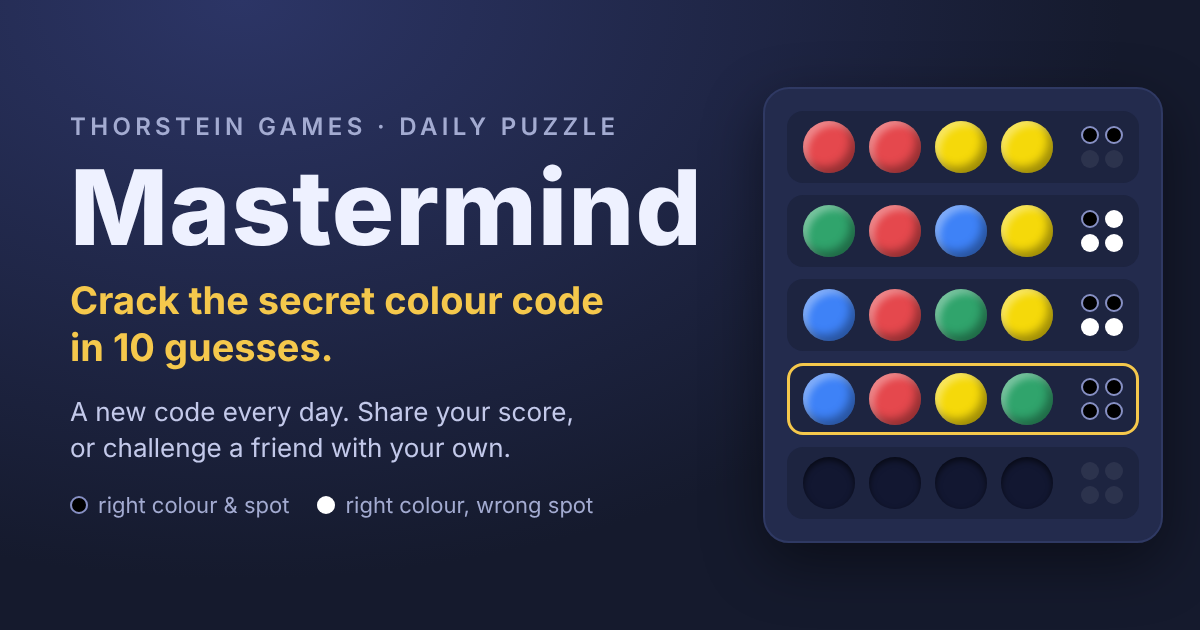
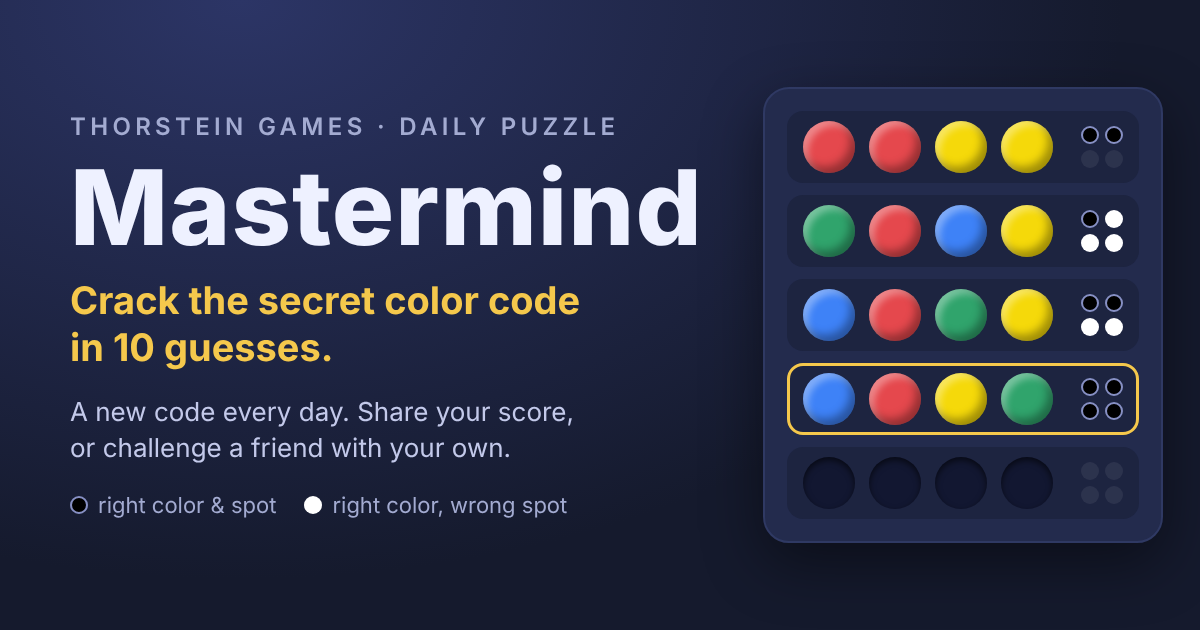
Use American spelling: colour -> color
Page text, share image, FAQ/structured data, docs and code. Daily codes
and challenge links are unchanged.

Claude-Session: https://claude.ai/code/session_01EJeuJkqv4QMomsrJt5q13H

Changed region(s): [[0.1542, 0.7841, 0.4933, 0.8143], [0.37, 0.4524, 0.5242, 0.5127]]

diff --git a/index.html b/index.html
@@ -6,11 +6,11 @@
     <title>Mastermind – Free Daily Code-Breaking Puzzle | Thorstein Games</title>
     <meta
       name="description"
-      content="Play Mastermind free online: crack the secret 4-colour code in 10 guesses. A new code every day, Wordle-style sharing, and custom codes to challenge friends."
+      content="Play Mastermind free online: crack the secret 4-color code in 10 guesses. A new code every day, Wordle-style sharing, and custom codes to challenge friends."
     />
     <meta
       name="keywords"
-      content="mastermind, mastermind game, mastermind online, daily puzzle, code breaker, codebreaker game, colour code game, logic puzzle, wordle alternative, brain game"
+      content="mastermind, mastermind game, mastermind online, daily puzzle, code breaker, codebreaker game, color code game, logic puzzle, wordle alternative, brain game"
     />
     <link rel="canonical" href="https://thorsteingames.com/mastermind" />
     <meta name="robots" content="index, follow, max-image-preview:large" />
@@ -22,10 +22,10 @@
     <meta property="og:type" content="website" />
     <meta property="og:locale" content="en_US" />
     <meta property="og:url" content="https://thorsteingames.com/mastermind" />
-    <meta property="og:title" content="Mastermind – crack the daily colour code" />
+    <meta property="og:title" content="Mastermind – crack the daily color code" />
     <meta
       property="og:description"
-      content="A new 4-colour code every day. 10 guesses. Black pin: right colour, right spot. White pin: right colour, wrong spot. Share your score or challenge a friend."
+      content="A new 4-color code every day. 10 guesses. Black pin: right color, right spot. White pin: right color, wrong spot. Share your score or challenge a friend."
     />
     <meta property="og:image" content="https://thorsteingames.com/mastermind/og-image.png" />
     <meta property="og:image:secure_url" content="https://thorsteingames.com/mastermind/og-image.png" />
@@ -34,18 +34,18 @@
     <meta property="og:image:height" content="630" />
     <meta
       property="og:image:alt"
-      content="Mastermind by Thorstein Games: a board of coloured guesses with black and white feedback pins"
+      content="Mastermind by Thorstein Games: a board of colored guesses with black and white feedback pins"
     />
     <meta name="twitter:card" content="summary_large_image" />
-    <meta name="twitter:title" content="Mastermind – crack the daily colour code" />
+    <meta name="twitter:title" content="Mastermind – crack the daily color code" />
     <meta
       name="twitter:description"
-      content="A new 4-colour code every day. 10 guesses. Share your score or challenge a friend."
+      content="A new 4-color code every day. 10 guesses. Share your score or challenge a friend."
     />
     <meta name="twitter:image" content="https://thorsteingames.com/mastermind/og-image.png" />
     <meta
       name="twitter:image:alt"
-      content="Mastermind by Thorstein Games: a board of coloured guesses with black and white feedback pins"
+      content="Mastermind by Thorstein Games: a board of colored guesses with black and white feedback pins"
     />
 
     <link rel="icon" type="image/svg+xml" href="/favicon.svg" />
@@ -63,7 +63,7 @@
             "name": "Mastermind",
             "url": "https://thorsteingames.com/mastermind",
             "image": "https://thorsteingames.com/mastermind/og-image.png",
-            "description": "A free daily code-breaking puzzle. Crack the secret 4-colour code in 10 guesses using black and white feedback pins, share your score, or set a code to challenge a friend.",
+            "description": "A free daily code-breaking puzzle. Crack the secret 4-color code in 10 guesses using black and white feedback pins, share your score, or set a code to challenge a friend.",
             "genre": ["Puzzle", "Logic", "Daily puzzle"],
             "gamePlatform": "Web browser",
             "applicationCategory": "GameApplication",
@@ -96,11 +96,11 @@
               {
                 "@type": "Question",
                 "name": "How do you play Mastermind?",
-                "acceptedAnswer": { "@type": "Answer", "text": "Guess the secret code: 4 pegs, each red, yellow, green or blue. After each guess, a black pin means a right colour in the right spot and a white pin means a right colour in the wrong spot. Crack the code within 10 guesses." }
+                "acceptedAnswer": { "@type": "Answer", "text": "Guess the secret code: 4 pegs, each red, yellow, green or blue. After each guess, a black pin means a right color in the right spot and a white pin means a right color in the wrong spot. Crack the code within 10 guesses." }
               },
               {
                 "@type": "Question",
-                "name": "Can colours repeat in the code?",
+                "name": "Can colors repeat in the code?",
                 "acceptedAnswer": { "@type": "Answer", "text": "Yes. Any arrangement is possible, such as blue blue green blue, so there are 256 possible codes." }
               },
               {
@@ -135,14 +135,14 @@
       <h2 id="about-title">How to play Mastermind</h2>
       <p>
         Mastermind is a classic code-breaking puzzle. The computer hides a secret code of
-        <strong>4 coloured pegs</strong>, each <strong>red, yellow, green or blue</strong>.
-        Colours can repeat, so <em>blue blue green blue</em> is a valid code. You have
+        <strong>4 colored pegs</strong>, each <strong>red, yellow, green or blue</strong>.
+        Colors can repeat, so <em>blue blue green blue</em> is a valid code. You have
         <strong>10 guesses</strong> to crack it.
       </p>
       <p>After every guess, pins next to it tell you how close you are:</p>
       <ul>
-        <li><strong>Black pin:</strong> one of your pegs is the right colour in the right spot.</li>
-        <li><strong>White pin:</strong> one of your pegs is the right colour, but in the wrong spot.</li>
+        <li><strong>Black pin:</strong> one of your pegs is the right color in the right spot.</li>
+        <li><strong>White pin:</strong> one of your pegs is the right color, but in the wrong spot.</li>
       </ul>
       <p>
         The pins come in no particular order, so they don't say which peg they mean, and each
@@ -155,7 +155,7 @@
       <h3>How do I share my result?</h3>
       <p>
         When you finish, tap <strong>Share result</strong>. Like Wordle, it shares only your pins, never
-        the colours, so it won't spoil the code for anyone else.
+        the colors, so it won't spoil the code for anyone else.
       </p>
       <h3>How do I challenge a friend?</h3>
       <p>

diff --git a/src/main.ts b/src/main.ts
@@ -201,7 +201,7 @@ function openHelp(): void {
     h(
       "p",
       {},
-      "Crack the secret code: 4 pegs, each Red, Yellow, Green or Blue. Colours can repeat, so ",
+      "Crack the secret code: 4 pegs, each Red, Yellow, Green or Blue. Colors can repeat, so ",
       h("em", {}, "Blue Blue Green Blue"),
       " is a possible code.",
     ),
@@ -209,13 +209,13 @@ function openHelp(): void {
     h(
       "ul",
       { class: "pin-legend" },
-      h("li", {}, h("span", { class: "pin pin-black" }), " Black: right colour in the right spot."),
-      h("li", {}, h("span", { class: "pin pin-white" }), " White: right colour, wrong spot."),
+      h("li", {}, h("span", { class: "pin pin-black" }), " Black: right color in the right spot."),
+      h("li", {}, h("span", { class: "pin pin-white" }), " White: right color, wrong spot."),
     ),
     h("p", {}, "The pins are in no particular order, so they don't say which peg they mean. Each secret peg counts once."),
     exampleRow(["red", "red", "blue", "green"], { black: 1, white: 1 }, "If the code is Red Yellow Green Yellow: one Red is exact (black), the Green is in the wrong spot (white)."),
     h("p", {}, "A new code every day at midnight. Share your result, or send a friend your own code with ✉."),
-    h("p", { class: "muted" }, "Keyboard: 1–4 or R/Y/G/B to add a colour, Backspace to remove, Enter to guess."),
+    h("p", { class: "muted" }, "Keyboard: 1–4 or R/Y/G/B to add a color, Backspace to remove, Enter to guess."),
   );
 }
 
@@ -410,7 +410,7 @@ function renderGame(cfg: GameConfig): void {
     );
     const palette = h(
       "div",
-      { class: "palette", "aria-label": "Colours" },
+      { class: "palette", "aria-label": "Colors" },
       ...COLORS.map((c, i) =>
         h(
           "button",
@@ -436,9 +436,9 @@ function renderGame(cfg: GameConfig): void {
         "p",
         { class: "legend muted" },
         h("span", { class: "pin pin-black" }),
-        " right colour & spot  ",
+        " right color & spot  ",
         h("span", { class: "pin pin-white" }),
-        " right colour, wrong spot",
+        " right color, wrong spot",
       ),
     );
   }
@@ -575,7 +575,7 @@ function renderCreate(): void {
       ...code.map((c, i) =>
         h("button", {
           class: `slot peg-${c}`,
-          "aria-label": `Spot ${i + 1}: ${COLOR_LABEL[c]}. Tap to change colour.`,
+          "aria-label": `Spot ${i + 1}: ${COLOR_LABEL[c]}. Tap to change color.`,
           onclick: () => {
             code[i] = COLORS[(COLORS.indexOf(code[i]) + 1) % COLORS.length];
             invalidate();
@@ -631,7 +631,7 @@ function renderCreate(): void {
         "div",
         { class: "card create" },
         h("h2", {}, "Set a secret code"),
-        h("p", { class: "muted" }, "Tap a peg to change its colour. Colours can repeat."),
+        h("p", { class: "muted" }, "Tap a peg to change its color. Colors can repeat."),
         slots,
         h(
           "div",

diff --git a/src/logic.ts b/src/logic.ts
@@ -27,14 +27,14 @@ export const COLOR_EMOJI: Record<Color, string> = {
 };
 
 export interface Feedback {
-  /** Right colour in the right spot. */
+  /** Right color in the right spot. */
   black: number;
-  /** Right colour in the wrong spot (each secret peg counts once). */
+  /** Right color in the wrong spot (each secret peg counts once). */
   white: number;
 }
 
 /**
- * Score a guess against the secret. A colour can only be matched as many
+ * Score a guess against the secret. A color can only be matched as many
  * times as it appears in the secret, and an exact match (black) replaces the
  * white it would otherwise have earned.
  */
@@ -124,7 +124,7 @@ export interface Challenge {
 }
 
 const CHALLENGE_SALT_BITS = 8;
-const CHALLENGE_DATA_BITS = 11; // 8 bits of colours + 3 bits of (guesses - 10)
+const CHALLENGE_DATA_BITS = 11; // 8 bits of colors + 3 bits of (guesses - 10)
 const CHALLENGE_CHECK_BITS = 5;
 
 function challengeMask(salt: number): number {
@@ -144,13 +144,13 @@ function challengeCheck(salt: number, data: number): number {
 export function encodeChallenge(ch: Challenge, salt = Math.floor(Math.random() * 256)): string {
   if (ch.code.length !== CODE_LENGTH) throw new Error("bad code length");
   if (ch.maxGuesses < MIN_GUESSES || ch.maxGuesses > MAX_GUESSES) throw new Error("bad guess count");
-  let colours = 0;
+  let colors = 0;
   for (const c of ch.code) {
     const i = COLORS.indexOf(c);
-    if (i < 0) throw new Error(`bad colour ${c}`);
-    colours = (colours << 2) | i;
+    if (i < 0) throw new Error(`bad color ${c}`);
+    colors = (colors << 2) | i;
   }
-  const data = colours | ((ch.maxGuesses - MIN_GUESSES) << 8);
+  const data = colors | ((ch.maxGuesses - MIN_GUESSES) << 8);
   const s = salt & ((1 << CHALLENGE_SALT_BITS) - 1);
   const packed =
     (((s << CHALLENGE_DATA_BITS) | (data ^ challengeMask(s))) << CHALLENGE_CHECK_BITS) |
@@ -190,7 +190,7 @@ export interface ShareInput {
   url: string;
 }
 
-/** Wordle-style result: only the pegs, never the colours, so it can't spoil the code. */
+/** Wordle-style result: only the pegs, never the colors, so it can't spoil the code. */
 export function shareText({ title, feedback, solved, maxGuesses, url }: ShareInput): string {
   const score = solved ? `${feedback.length}/${maxGuesses}` : `X/${maxGuesses}`;
   const rows = feedback.map(feedbackEmoji).join("\n");

diff --git a/scripts/og-image.html b/scripts/og-image.html
@@ -22,9 +22,9 @@ h1{font-size:104px;letter-spacing:.01em;line-height:1;margin:14px 0 18px;font-we
 <div class="left">
  <div class="brand">Thorstein Games · Daily puzzle</div>
  <h1>Mastermind</h1>
- <div class="tag">Crack the secret colour code<br>in 10 guesses.</div>
+ <div class="tag">Crack the secret color code<br>in 10 guesses.</div>
  <div class="sub">A new code every day. Share your score,<br>or challenge a friend with your own.</div>
- <div class="legend"><span><i class="pin k"></i>right colour &amp; spot</span><span><i class="pin w"></i>right colour, wrong spot</span></div>
+ <div class="legend"><span><i class="pin k"></i>right color &amp; spot</span><span><i class="pin w"></i>right color, wrong spot</span></div>
 </div>
 <div class="board">
  <div class="row"><i class="peg r"></i><i class="peg r"></i><i class="peg y"></i><i class="peg y"></i><span class="pins"><i class="pin k"></i><i class="pin k"></i><i class="pin n"></i><i class="pin n"></i></span></div>

diff --git a/tests/logic.test.ts b/tests/logic.test.ts
@@ -52,13 +52,13 @@ describe("daily code", () => {
     expect(codes.size).toBeGreaterThan(45);
   });
 
-  it("only uses the four colours, four pegs", () => {
+  it("only uses the four colors, four pegs", () => {
     const code = dailyCode("2027-01-01");
     expect(code).toHaveLength(4);
     for (const col of code) expect(COLORS).toContain(col);
   });
 
-  it("uses every colour in every position over time", () => {
+  it("uses every color in every position over time", () => {
     const seen = new Set<string>();
     for (let d = 0; d < 200; d++) {
       dailyCode(dateKey(new Date(2026, 9, 21 + d))).forEach((col, i) => seen.add(`${i}:${col}`));
@@ -124,7 +124,7 @@ describe("challenge links", () => {
 });
 
 describe("share text", () => {
-  it("shows pins but never the colours", () => {
+  it("shows pins but never the colors", () => {
     const text = shareText({
       title: "Mastermind #1",
       feedback: [

diff --git a/CLAUDE.md b/CLAUDE.md
@@ -1,6 +1,6 @@
 # CLAUDE.md
 
-Mastermind: a single-player daily code-breaking puzzle (4 pegs, colours Red/Yellow/Green/Blue, repeats allowed, 10 guesses). Static site, Vite + TypeScript, no framework and no backend.
+Mastermind: a single-player daily code-breaking puzzle (4 pegs, colors Red/Yellow/Green/Blue, repeats allowed, 10 guesses). Static site, Vite + TypeScript, no framework and no backend.
 
 ## Commands
 
@@ -12,7 +12,7 @@ npm run build    # typecheck + static build to dist/
 
 ## Layout
 
-- `src/logic.ts`: all game rules, pure and unit-tested in `tests/logic.test.ts`: `scoreGuess` (black/white pins), `dailyCode(dateKey)` (seeded from the local date, so the same day always gives the same code and nothing is stored), `puzzleNumber` (#1 = `LAUNCH_KEY`, 2026-10-21), challenge tokens (`encodeChallenge`/`decodeChallenge`: 5 base36 chars = 8-bit random salt + scrambled code and guess count + 5-bit checksum), `shareText` (pins only, never colours).
+- `src/logic.ts`: all game rules, pure and unit-tested in `tests/logic.test.ts`: `scoreGuess` (black/white pins), `dailyCode(dateKey)` (seeded from the local date, so the same day always gives the same code and nothing is stored), `puzzleNumber` (#1 = `LAUNCH_KEY`, 2026-10-21), challenge tokens (`encodeChallenge`/`decodeChallenge`: 5 base36 chars = 8-bit random salt + scrambled code and guess count + 5-bit checksum), `shareText` (pins only, never colors).
 - `src/storage.ts`: localStorage (`mastermind.*` keys), every access guarded. Guesses per game id (`daily:YYYY-MM-DD`, `challenge:<token>`), daily stats/streak/distribution (`recordDaily` counts each day once).
 - `src/main.ts`: the UI, built with a tiny `h()` helper. Routes by query string: `/` daily, `?c=<token>&from=<name>` a friend's challenge, `?create` make a challenge. Links use `location.origin + pathname`, so they work on github.io and through the thorsteingames.com proxy.
 - Changing `dailyCode`, the hash, or `LAUNCH_KEY` changes past and present daily codes (and breaks shared results); changing the challenge token format breaks links already sent. Don't, unless that's the intent.

diff --git a/README.md b/README.md
@@ -2,17 +2,17 @@
 
 A daily code-breaking puzzle from [Thorstein Games](https://thorsteingames.com).
 
-Crack the secret code: 4 pegs, each **Red, Yellow, Green or Blue** (colours can repeat, so
+Crack the secret code: 4 pegs, each **Red, Yellow, Green or Blue** (colors can repeat, so
 Blue Blue Green Blue is a valid code). You get 10 guesses. After each guess the pins beside it say
 how close you are, in no particular order:
 
-- ⚫ **Black**: right colour in the right spot.
-- ⚪ **White**: right colour, wrong spot. Each secret peg counts once, and a black replaces the white it would otherwise earn.
+- ⚫ **Black**: right color in the right spot.
+- ⚪ **White**: right color, wrong spot. Each secret peg counts once, and a black replaces the white it would otherwise earn.
 
 ## Features
 
 - **Daily code**: everyone gets the same code each day, derived from the date (no server, nothing stored).
-- **Wordle-style sharing**: the result shows only the pins, never the colours, so it doesn't spoil the code.
+- **Wordle-style sharing**: the result shows only the pins, never the colors, so it doesn't spoil the code.
 - **Challenges**: set your own code and guess limit (10–15) and send a friend a link. The code is
   scrambled in the link so it can't be read off the URL.
 - Progress, stats and streaks are kept in the browser (localStorage).
